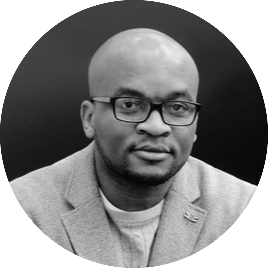
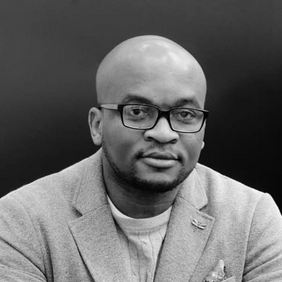
completed the Team section of about page

diff --git a/project/templates/site_app/about_page.html b/project/templates/site_app/about_page.html
@@ -15,8 +15,8 @@
       <!-- About Management Team -->
       <div class="relative">
         <div class="lg:ml-[170px] text-left mb-0 mt-14">
-          <h2 class="text-3xl text-white font-serif  font-normal leading-normal -mb-2">About</h2>
-          <span class="text-xl font-serif leading-normal font-light">Management Team</span>
+          <h2 class="text-4xl text-white font-serif  font-normal leading-normal -mb-2">About</h2>
+          <span class="text-2xl font-serif leading-normal font-light">Management Team</span>
         </div>
 
         <div class="relative flex justify-center gap-12 mb-8  h-[680px]">
@@ -73,56 +73,58 @@
       </div>
 
       <!-- Our Board -->
-      <div>
-        <div class="text-center mb-12">
-          <h2 class="text-3xl font-bold">Our Board</h2>
+      <div class="">
+        <div class="text-start lg:w-[45%] mx-auto mb-12">
+          <h2 class="text-4xl font-normal font-serif">Our Board</h2>
         </div>
 
         <div class="flex flex-wrap justify-center gap-8">
           <!-- Board Member 1 -->
-          <div class="flex flex-col items-center text-center">
-            <div class="w-24 h-24 mb-4">
-              <img src="{% static 'img/board/moses.png' %}" alt="Board Member" class="rounded-full object-cover w-full h-full" />
+          <div class="flex flex-col items-center lg:w-[215px] text-center">
+            <div class=" mb-4">
+              <img src="{% static 'img/board/moses.png' %}" alt="Board Member" class="rounded-full object-cover w-[184px] h-[275px] " />
             </div>
-            <h3 class="text-lg font-semibold">Moses Browne Mwakyanjala</h3>
-            <p class="text-sm">Founder of Remos</p>
+            <h3 class="text-2xl font-serif font-light">Moses Browne Mwakyanjala</h3>
+            <p class="text-lg font-sans font-light">Founder of Remos</p>
+
           </div>
 
           <!-- Board Member 2 -->
-          <div class="flex flex-col items-center text-center">
-            <div class="w-24 h-24 mb-4">
-              <img src="{% static 'img/board/christer.png' %}" alt="Board Member" class="rounded-full object-cover w-full h-full" />
+          <div class="flex flex-col items-center lg:w-[215px] text-center ">
+            <div class=" mb-4">
+                <img src="{% static 'img/board/christer.png' %}" alt="Board Member" class=" rounded-full object-cover w-[184px] h-[275px]" />
             </div>
-            <h3 class="text-lg font-semibold">Christer Andersson</h3>
-            <p class="text-sm">Earth Observation Expert</p>
+            <h3 class="text-2xl font-serif font-light">Christer Andersson</h3>
+            <p class="text-lg font-sans font-light">Earth Observation Expert</p>
           </div>
 
           <!-- Board Member 3 -->
-          <div class="flex flex-col items-center text-center">
-            <div class="w-24 h-24 mb-4">
-              <img src="{% static 'img/board/mustafa.png' %}" alt="Board Member" class="rounded-full object-cover w-full h-full" />
+          <div class="flex flex-col items-center lg:w-[215px] text-center ">
+            <div class="mb-4">
+                <img src="{% static 'img/board/mustafa.png' %}" alt="Board Member" class=" rounded-full object-cover w-[184px] h-[275px]" />
             </div>
-            <h3 class="text-lg font-semibold">Mustapha Elriz</h3>
-            <p class="text-sm">Founder of Satosuit</p>
+            <h3 class="text-2xl font-serif font-light">Mustapha Elriz</h3>
+            <p class="text-lg font-sans font-light">Founder of Satosuit</p>
           </div>
 
           <!-- Board Member 4 -->
-          <div class="flex flex-col items-center text-center">
-            <div class="w-24 h-24 mb-4">
-              <img src="{% static 'img/board/stefan.png' %}" alt="Board Member" class="rounded-full object-cover w-full h-full" />
+          <div class="flex flex-col items-center lg:w-[215px] text-center ">
+            <div class=" mb-4">
+                <img src="{% static 'img/board/stefan.png' %}" alt="Board Member" class=" rounded-full object-cover w-[184px] h-[275px]" />
             </div>
-            <h3 class="text-lg font-semibold">Stefan Gardefjord</h3>
-            <p class="text-sm">Former CEO of SSC</p>
+            <h3 class="text-2xl font-serif font-light">Stefan Gardefjord</h3>
+            <p class="text-lg font-sans font-light">Former CEO of SSC</p>
           </div>
 
           <!-- Board Member 5 -->
-          <div class="flex flex-col items-center text-center">
-            <div class="w-24 h-24 mb-4">
-              <img src="{% static 'img/board/markus.png' %}" alt="Board Member" class="rounded-full object-cover w-full h-full" />
+          <div class="flex flex-col items-center lg:w-[215px] text-center ">
+            <div class=" mb-4">
+                <img src="{% static 'img/board/markus.png' %}" alt="Board Member" class="rounded-full object-cover w-[184px] h-[275px]" />
             </div>
-            <h3 class="text-lg font-semibold">Markus Priman</h3>
-            <p class="text-sm">Co-Founder of Nexabounds</p>
+            <h3 class="text-2xl font-serif font-light">Markus Priman</h3>
+            <p class="text-lg font-sans font-light">Co-Founder of Nexabounds</p>
           </div>
+
         </div>
       </div>
     </div>

diff --git a/project/static/css/output.css b/project/static/css/output.css
@@ -1194,6 +1194,22 @@ video {
   width: 120px;
 }
 
+.w-\[184px\] {
+  width: 184px;
+}
+
+.w-\[18\%\] {
+  width: 18%;
+}
+
+.w-\[19\%\] {
+  width: 19%;
+}
+
+.w-\[50\%\] {
+  width: 50%;
+}
+
 .min-w-fit {
   min-width: -moz-fit-content;
   min-width: fit-content;
@@ -1395,6 +1411,10 @@ video {
 
 .rounded-lg {
   border-radius: 0.5rem;
+}
+
+.rounded-\[73px\] {
+  border-radius: 73px;
 }
 
 .border {
@@ -1606,6 +1626,10 @@ video {
 
 .text-right {
   text-align: right;
+}
+
+.text-start {
+  text-align: start;
 }
 
 .font-sans {
@@ -1846,6 +1870,10 @@ video {
     margin-top: 0px;
   }
 
+  .lg\:max-h-\[208px\] {
+    max-height: 208px;
+  }
+
   .lg\:min-h-\[550px\] {
     min-height: 550px;
   }
@@ -1874,8 +1902,44 @@ video {
     width: 90%;
   }
 
+  .lg\:w-\[210\%\] {
+    width: 210%;
+  }
+
+  .lg\:w-\[210px\] {
+    width: 210px;
+  }
+
+  .lg\:w-\[215px\] {
+    width: 215px;
+  }
+
+  .lg\:w-\[45\%\] {
+    width: 45%;
+  }
+
   .lg\:min-w-\[368px\] {
     min-width: 368px;
+  }
+
+  .lg\:max-w-\[208px\] {
+    max-width: 208px;
+  }
+
+  .lg\:max-w-\[207px\] {
+    max-width: 207px;
+  }
+
+  .lg\:max-w-\[210px\] {
+    max-width: 210px;
+  }
+
+  .lg\:max-w-\[212px\] {
+    max-width: 212px;
+  }
+
+  .lg\:max-w-\[211px\] {
+    max-width: 211px;
   }
 
   .lg\:flex-shrink-0 {
